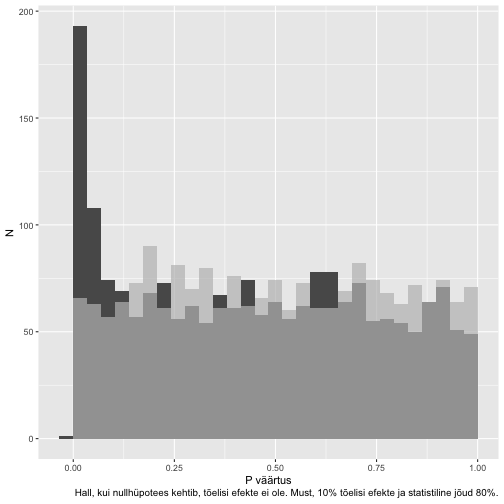
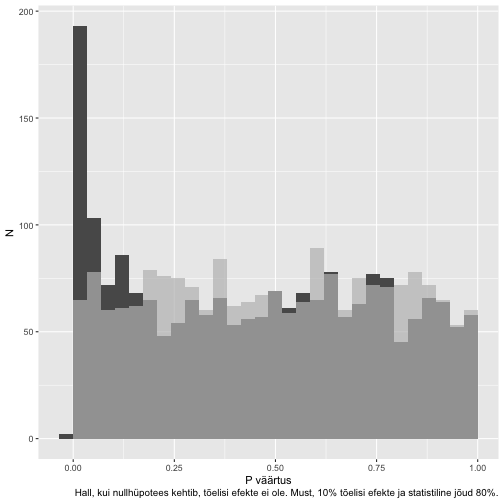
updates

Changed region(s): [[0.1488, 0.4762, 0.9524, 0.6845], [0.1488, 0.4167, 0.2083, 0.4464]]

diff --git a/index.html b/index.html
@@ -33,7 +33,9 @@ class: inverse, middle, center
 
 - See kehtib ka oomika ekperimentide korral, kus viiakse läbi paraleelselt tuhandeid mõõtmisi ja detekteeritakse samuti kuni tuhandeid efekte      
 
-- väike osa leitud efektidest on tõelised ja teaduslikult huvitavad. Kuidas teha vahet mis on mis?     
+- Väike osa leitud efektidest on tõelised ja teaduslikult huvitavad. Kuidas teha vahet mis on mis -- tõelised efektid *versus* valepositiivsed?     
+
+- Hoidmaks vale positiivsete avastuste arvu kontrolli all, kasutatakse erinevaid meetodeid. Et need meetodid töötaks, on olulised teatud eeldused, näiteks nagu see et P väärtused oleks ühtlase jaotusega
 
 ---
 
@@ -47,7 +49,6 @@ class: inverse, middle, center
 
 - Tulemused tunduvad huvitavad..., kas tasuks replitseerida&lt;sup&gt;1&lt;/sup&gt;? 
 - Kuidas hinnata sellise eksperimendi kvaliteeti, kus on testitud paralleelselt tuhandeid hüpoteese?
-
 
 .footnote[[1] Replitseerimine -- uute andmete korjamine kontrollimaks teaduslikke väiteid. Reprodutseerimine keskendub eelkõige andmete analüüsi korratavus. Reprodutseeritavus toetab, kuid ei taga teaduslike väidete paikapidavust.]
 
@@ -100,6 +101,8 @@ Jaotuse kuju ei määra mitte hüpotees vaid parameetrid ([Murdoch, 2008](https:
 ---
 
 ## Test statistik diskreetsest jaotusest 
+
+P väärtuste jaotus ei ole enam ühtlane ning histogrammidega pole enam midagi suurt peale hakata näiteks FDR kontrolli plaanis..
 
 &lt;img src="img/murdoch2008-fig3.png" width="60%" style="display: block; margin: auto;" /&gt;
 
